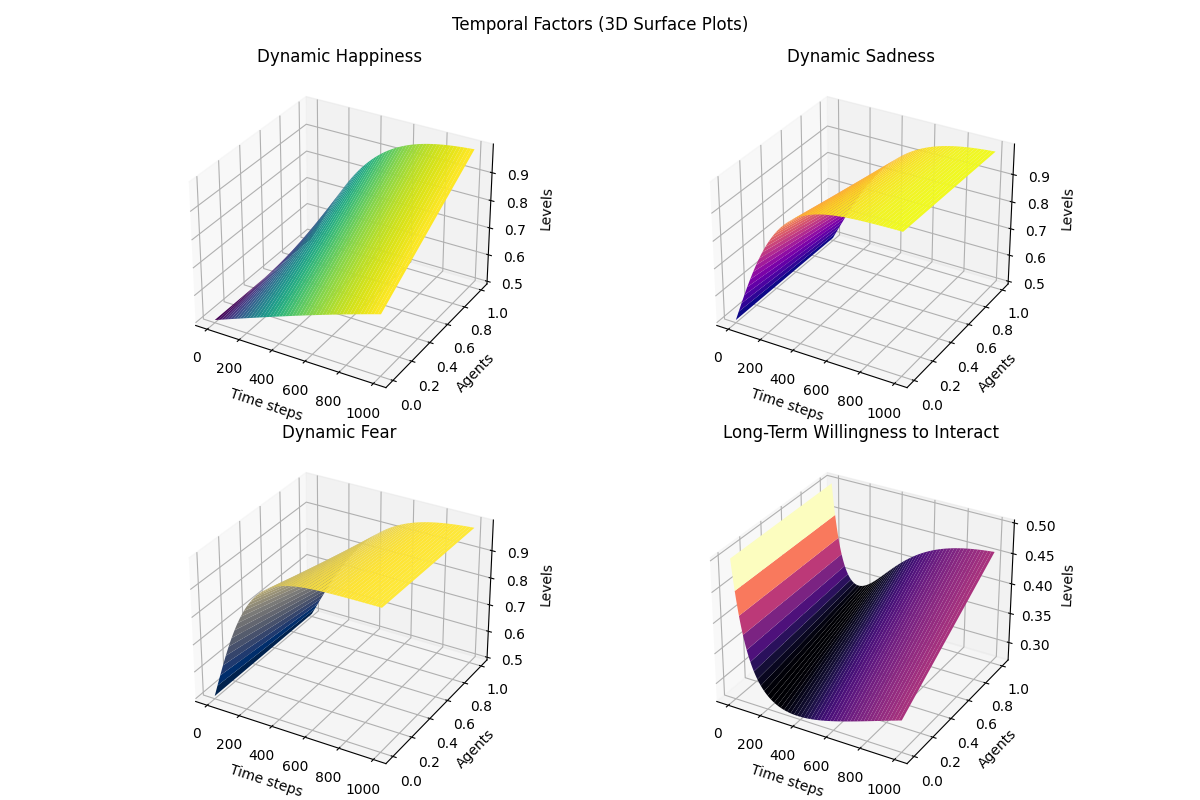
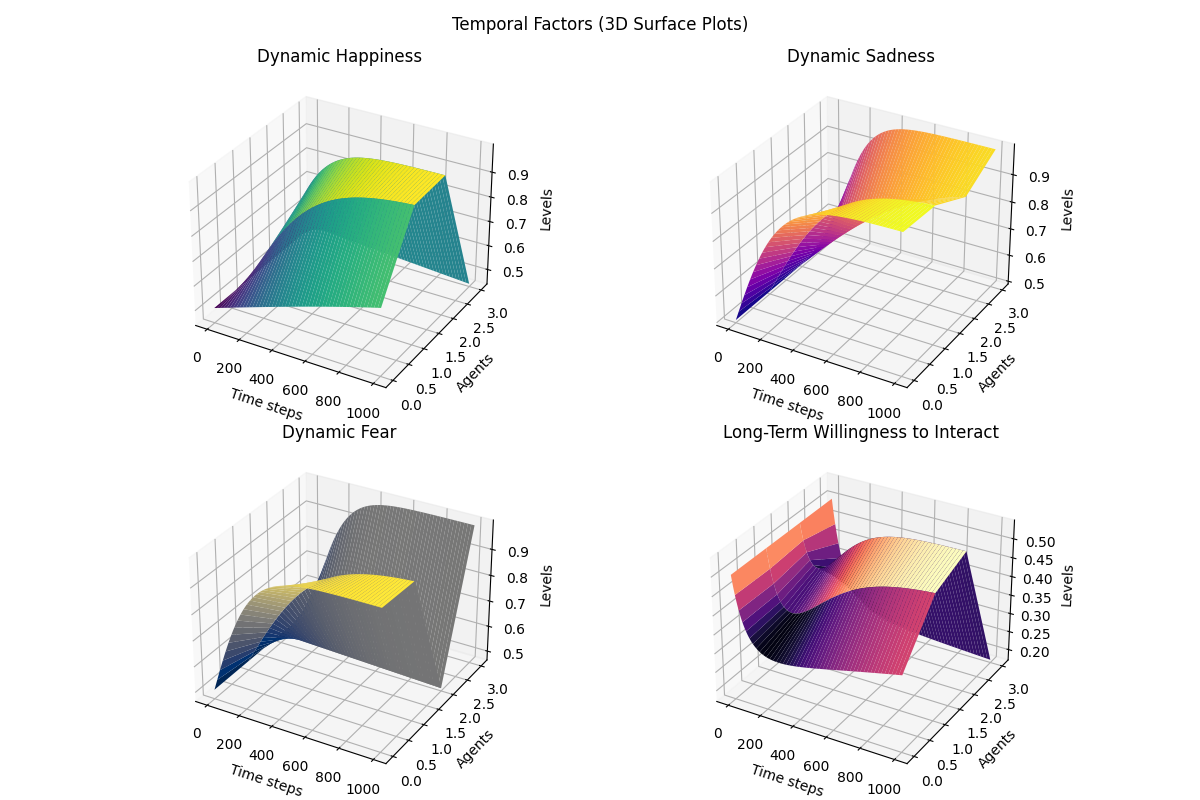
IT CLUSTERS AAAA
- It clusters but not integrated into the actual model yet.... woopie
- Gotta get the model to run seperately on each cluster
- Think on how to save it as pictures i guess?

diff --git a/main.py b/main.py
@@ -1,3 +1,4 @@
+from collections import defaultdict
 from fastapi import FastAPI, Depends, Form, HTTPException, Request
 from fastapi.responses import HTMLResponse, RedirectResponse
 from sqlalchemy import create_engine, Column, Integer, String, Float
@@ -77,6 +78,40 @@ class Agent(Base):
 # Create tables
 Base.metadata.create_all(bind=engine)
 
+def euclid_dist(agentLoc, tvLoc):
+    return np.sqrt((agentLoc[0] - tvLoc[0]) ** 2 + (agentLoc[1] - tvLoc[1]) ** 2)
+
+def clustering(agent_array,agent_detail, tv_array):
+    
+    cluster = defaultdict(list)
+    
+    print(agent_array)
+    print(agent_detail)
+    
+    for index, agent in enumerate(agent_array):
+        print(index)
+        print(agent)
+        closest_tv_index = None
+        min_dist = float('inf')
+        
+        for tvindex, tv in enumerate(tv_array):
+            dist = euclid_dist((agent[1], agent[2]), (tv[1], tv[2]))
+            if dist < min_dist:
+                min_dist= dist
+                closest_tv_index = tvindex
+        
+        #Cluster is a 2d array where it saves it by groups of agents. [[A1, A2, A3],[A4,A5]]
+        cluster[closest_tv_index].append(agent)
+        print(index)
+        print(agent_detail[index])
+        cluster[closest_tv_index].append(agent_detail[index])
+    print("Cluster DEbug -------")
+    print(cluster)
+    print("Cluster DEbug -------")
+        
+    return cluster 
+
+#region SSIC Model
 def run_ssic_model(agent_array):
     # Time and model parameters
     maxLimY = 1.2
@@ -112,28 +147,29 @@ def run_ssic_model(agent_array):
     lambda_Df = 0.03
     gamma_Li = 0.5
     
-    # Initial state at t=1
+    #-------------------------------------------------------------
+    # Run the model at t=1
     for i in range(numAgents):
         Pa[i, 0] = Dh[i, 0] - (beta_Pa * Ds[i, 0])
         Si[i, 0] = beta_Si * Pa[i, 0] + (1 - beta_Si) * (omega_Ps * agent_array[i, 3] + (1 - omega_Ps) * agent_array[i, 4]) * agent_array[i, 7] * (1 - agent_array[i, 6])
         Psi[i, 0] = 1 / (1 + np.exp(-k * (Df[i, 0] * agent_array[i, 5])))
         Ri[i, 0] = beta_Ri * (omega_Ri * Si[i, 0] + (1 - omega_Ri) * Li[i, 0]) * agent_array[i, 8] * (1 - Psi[i, 0])
 
-    # Simulation for t=2 to numStep
+    # Run the model at t=2
     for t in range(1, numStep):
         for i in range(numAgents):
+            Pa[i, t] = Dh[i, t-1] - (beta_Pa * Ds[i, t])
+            Si[i, t] = beta_Si * Pa[i, t] + (1 - beta_Si) * (omega_Ps * agent_array[i, 3] + (1 - omega_Ps) * agent_array[i, 4]) * agent_array[i, 7] * (1 - agent_array[i, 6])
+            Psi[i, t] = Df[i, t-1] * agent_array[i, 5] / (1 + np.exp(-k * (Df[i, t-1] * agent_array[i, 5])))
+            Ri[i, t] = beta_Ri * (omega_Ri * Si[i, t] + (1 - omega_Ri) * Li[i, t-1]) * agent_array[i, 8] * (1 - Psi[i, t])
+            
             Dh[i, t] = Dh[i, t-1] + gamma_Dh * (agent_array[i, 0] - lambda_Dh) * Dh[i, t-1] * (1 - Dh[i, t-1]) * dt
             Ds[i, t] = Ds[i, t-1] + gamma_Ds * (agent_array[i, 1] - lambda_Ds) * Ds[i, t-1] * (1 - Ds[i, t-1]) * dt
             Df[i, t] = Df[i, t-1] + gamma_Df * (agent_array[i, 2] - lambda_Df) * Df[i, t-1] * (1 - Df[i, t-1]) * dt
-
-            Pa[i, t] = Dh[i, t] - (beta_Pa * Ds[i, t])
-            Si[i, t] = beta_Si * Pa[i, t] + (1 - beta_Si) * (omega_Ps * agent_array[i, 3] + (1 - omega_Ps) * agent_array[i, 4]) * agent_array[i, 7] * (1 - agent_array[i, 6])
             Li[i, t] = Li[i, t-1] + gamma_Li * (Si[i, t-1] - Li[i, t-1]) * (1 - Li[i, t-1]) * Li[i, t-1] * dt
-            Psi[i, t] = Df[i, t] * agent_array[i, 5] / (1 + np.exp(-k * (Df[i, t] * agent_array[i, 5])))
-            Ri[i, t] = beta_Ri * (omega_Ri * Si[i, t] + (1 - omega_Ri) * Li[i, t]) * agent_array[i, 8] * (1 - Psi[i, t])
 
     return Pa, Si, Ri, Dh, Ds, Df, Li, Psi  # or other desired outputs
-
+#endregion
 
 # Dependency to get the database session
 def get_db():
@@ -287,35 +323,66 @@ async def read_index(request: Request, db: Session = Depends(get_db)):
     
 @app.post("/simulate", response_class=HTMLResponse)
 async def simulate(request: Request, db: Session = Depends(get_db)):
-    simulation_agents = []
+    simulation_agents_detail = []
+    simulation_agents_name = []
 
     # Retrieve agent data (same as before)
-    for agent_name, _, _ in agents_list:
+    for agent_name, agent_posX, agent_posY in agents_list:
         agent = db.query(Agent).filter(Agent.name == agent_name).first()
         if agent:
-            simulation_agents.append([
+            simulation_agents_detail.append([
                 agent.Ha, agent.Sd, agent.Fe, agent.Ex, agent.Op,
-                agent.Nu, agent.Eh, 0.5, 0.5  # Add defaults if needed
+                agent.Nu, agent.Eh, 0.5, 0.5
             ])
+            
+            simulation_agents_name.append([agent_name,
+                agent_posX, agent_posY])
+            
+    print("--------------AGENT ARRAY---------------")
+    for agent in agents_list:
+        print(agent)
+    
+    for agent in simulation_agents_detail:
+        print(agent)
+        
+    for agent in simulation_agents_name:
+        print(agent)
+    print("----------------------------------------")
+    
+    #Add the cluster loop here
+    try:
+        print("Clustering Start")
+        clusterAgent = clustering(agent_array = simulation_agents_name, agent_detail = simulation_agents_detail, tv_array=tv_positions)
+        print("Clustering End")        
+        for tv, cluster in clusterAgent.items():
+            print("Printing Cluster")
+            print(tv+1)
+            for agent in cluster:
+                print(agent[0], agent[1], agent[2])
+    except Exception as e:
+        print(e)
 
     # Convert to numpy array
-    agent_array = np.array(simulation_agents)
+    agent_array = np.array(simulation_agents_detail)
 
     # Run the SSIC model
     Pa, Si, Ri, Dh, Ds, Df, Li, Psi = run_ssic_model(agent_array)
 
     # Save graphs to static directory
     image_urls = []
+    
     def save_fig_to_file(fig, name):
         path = STATIC_DIR / f"{name}.png"
         fig.savefig(path)
         image_urls.append(f"/static/{name}.png")
-
-    # Generate 3D surface plots
+    
+    #region Generate 3D surface plots
+    
+    #Temporal Graphs
     fig = plt.figure(figsize=(12, 8))
     fig.suptitle('Temporal Factors (3D Surface Plots)')
     time = np.arange(1000)
-    agents = np.arange(len(simulation_agents))
+    agents = np.arange(len(simulation_agents_detail))
     T, A = np.meshgrid(time, agents)
 
     ax1 = fig.add_subplot(2, 2, 1, projection='3d')
@@ -349,24 +416,105 @@ async def simulate(request: Request, db: Session = Depends(get_db)):
     plt.tight_layout()
     save_fig_to_file(fig, "3d_temporal_factors")
     plt.close(fig)
+    
+    #Instantaneous Graphs
+    
+    fig = plt.figure(figsize=(12, 8))
+    fig.suptitle('Instantaneous Factors (3D Surface Plots)')
+    time = np.arange(1000)
+    agents = np.arange(len(simulation_agents_detail))
+    T, A = np.meshgrid(time, agents)
 
-    # Generate 2D line plots
+    # Plot Positive Affect
+    ax1 = fig.add_subplot(2, 2, 1, projection='3d')
+    ax1.plot_surface(T, A, Pa, cmap='viridis')
+    ax1.set_title('Positive Affect')
+    ax1.set_xlabel('Time steps')
+    ax1.set_ylabel('Agents')
+    ax1.set_zlabel('Levels')
+
+    # Plot Short-Term Willingness to Interact
+    ax2 = fig.add_subplot(2, 2, 2, projection='3d')
+    ax2.plot_surface(T, A, Si, cmap='plasma')
+    ax2.set_title('Short-Term Willingness to Interact')
+    ax2.set_xlabel('Time steps')
+    ax2.set_ylabel('Agents')
+    ax2.set_zlabel('Levels')
+
+    # Plot Experienced Fear
+    ax3 = fig.add_subplot(2, 2, 3, projection='3d')
+    ax3.plot_surface(T, A, Psi, cmap='cividis')
+    ax3.set_title('Experienced Fear')
+    ax3.set_xlabel('Time steps')
+    ax3.set_ylabel('Agents')
+    ax3.set_zlabel('Levels')
+
+    # Plot Readiness to Interact
+    ax4 = fig.add_subplot(2, 2, 4, projection='3d')
+    ax4.plot_surface(T, A, Ri, cmap='magma')
+    ax4.set_title('Readiness to Interact')
+    ax4.set_xlabel('Time steps')
+    ax4.set_ylabel('Agents')
+    ax4.set_zlabel('Levels')
+
+    plt.tight_layout()
+    save_fig_to_file(fig, "3d_instantaneous_factors")
+    plt.close(fig)
+    
+    #endregion
+
+
+    #region Generate 2D line plots
+    
+    #Temporal Graphs
     fig, axes = plt.subplots(2, 2, figsize=(12, 8))
     fig.suptitle('Temporal Factors (2D Line Plots)')
-    for i in range(len(simulation_agents)):
-        axes[0, 0].plot(time, Dh[i, :], label=f'Agent {i+1}')
-        axes[0, 1].plot(time, Ds[i, :], label=f'Agent {i+1}')
-        axes[1, 0].plot(time, Df[i, :], label=f'Agent {i+1}')
-        axes[1, 1].plot(time, Li[i, :], label=f'Agent {i+1}')
+    for i in range(len(simulation_agents_detail)):
+        axes[0, 0].plot(time, Dh[i, :], label=f'{simulation_agents_name[i]}')
+        axes[0, 1].plot(time, Ds[i, :], label=f'{simulation_agents_name[i]}')
+        axes[1, 0].plot(time, Df[i, :], label=f'{simulation_agents_name[i]}')
+        axes[1, 1].plot(time, Li[i, :], label=f'{simulation_agents_name[i]}')
     axes[0, 0].set_title('Dynamic Happiness')
     axes[0, 1].set_title('Dynamic Sadness')
     axes[1, 0].set_title('Dynamic Fear')
     axes[1, 1].set_title('Long-Term Willingness to Interact')
+    
+    # Add legends to each subplot
+    axes[0, 0].legend(loc='best', fontsize=10)
+    axes[0, 1].legend(loc='best', fontsize=10)
+    axes[1, 0].legend(loc='best', fontsize=10)
+    axes[1, 1].legend(loc='best', fontsize=10)
 
     plt.tight_layout()
     save_fig_to_file(fig, "2d_temporal_factors")
     plt.close(fig)
+    
+    #Instantaneous Graphs
+    fig, axes = plt.subplots(2, 2, figsize=(12, 8))
+    fig.suptitle('Temporal Factors (2D Line Plots)')
+    for i in range(len(simulation_agents_detail)):
+        axes[0, 0].plot(time, Pa[i, :], label=f'{simulation_agents_name[i]}')
+        axes[0, 1].plot(time, Si[i, :], label=f'{simulation_agents_name[i]}')
+        axes[1, 0].plot(time, Psi[i, :], label=f'{simulation_agents_name[i]}')
+        axes[1, 1].plot(time, Ri[i, :], label=f'{simulation_agents_name[i]}')
+    axes[0, 0].set_title('Positive Affect')
+    axes[0, 1].set_title('Short Term Willingness to Interact')
+    axes[1, 0].set_title('Experienced Fear')
+    axes[1, 1].set_title('Readiness to Interact')
+    
+    # Add legends to each subplot
+    axes[0, 0].legend(loc='best', fontsize=10)
+    axes[0, 1].legend(loc='best', fontsize=10)
+    axes[1, 0].legend(loc='best', fontsize=10)
+    axes[1, 1].legend(loc='best', fontsize=10)
 
+    plt.tight_layout()
+    save_fig_to_file(fig, "2d_instantaneous_factors")
+    plt.close(fig)
+
+    #endregion
+    
+    
     # Render the result.html template with the image URLs
     return templates.TemplateResponse("result.html", {"request": request, "image_urls": image_urls})
 
